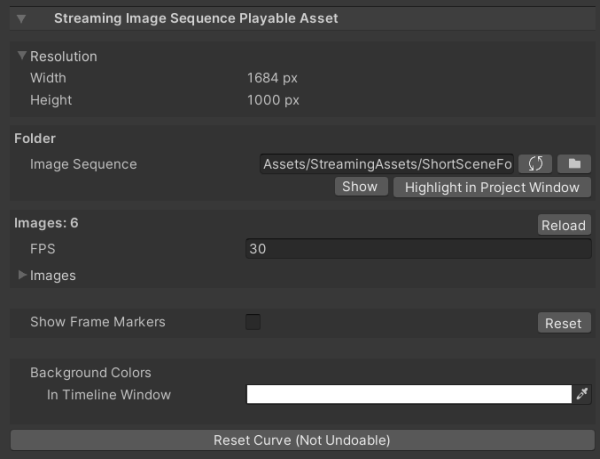
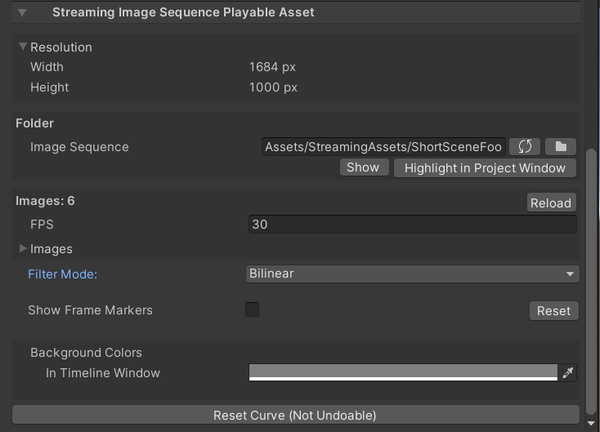
doc: update the documentation on playing sequential images (#430)
* update StreamingImageSequencePlayableAssetInspector picture
* add filter mode property under StreamingImageSequencePlayableAsset
* make gap extrapolation options into a table

diff --git a/Documentation~/FeaturePlayingSequentialImages.md b/Documentation~/FeaturePlayingSequentialImages.md
@@ -97,14 +97,14 @@ Refer to [FrameMarkers](FrameMarkers.md) for more details.
 The behaviour of a gap before or after a StreamingImageSequencePlayableAsset clip can be set in a similar way to 
 [setting gap extrapolation for Animation clips](https://docs.unity3d.com/Packages/com.unity.timeline@1.5/manual/clp_gap_extrap.html)
 using one of the following options:
-1. **None** (default): hide the bound object by deactivating its **Renderer** component.
-1. **Hold**: hold and show the first/last frame of the image sequence in the gap.
-1. **Loop**: loop the entire image sequence with the same clip duration.
-1. **Ping Pong**: loop the entire image sequence backwards, then forwards, and so forth, with the same clip duration.
-1. **Continue**: same as **Hold**
 
-By default, StreamingImageSequencePlayableAsset sets both Pre-Extrapolate and Post-Extrapolate properties to **None**.
-
+|**Option** |**Description** |
+|:---                       |:---|
+| **None** (default) | Hide the bound object by deactivating its **Renderer** component. |
+| **Hold**           | Hold and show the first/last frame of the image sequence in the gap.|
+| **Loop**          | Loop the entire image sequence with the same clip duration. |
+| **Ping Pong**     | Loop the entire image sequence backwards, then forwards, and so forth, with the same clip duration. |
+| **Continue**      | Same as **Hold**. |
 
 ## Curve Editing
 
@@ -155,6 +155,9 @@ We can view or modify the following properties through the inspector.
 * **Images**  
   The images inside the folder. 
   Can be reordered by dragging the image file name up/down.
+* **Filter Mode**  
+  Sets the [filtering mode](https://docs.unity3d.com/ScriptReference/FilterMode.html) of the output. 
+  Defaults to [Bilinear filtering](https://docs.unity3d.com/ScriptReference/FilterMode.Bilinear.html).
 * **Show FrameMarkers**.  
   Show/hide the [FrameMarker](FrameMarkers.md) of each frame.
   * **Reset**  
